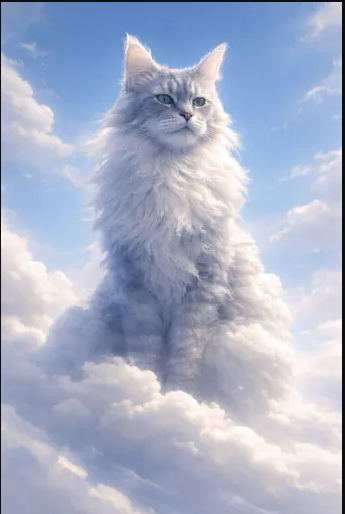
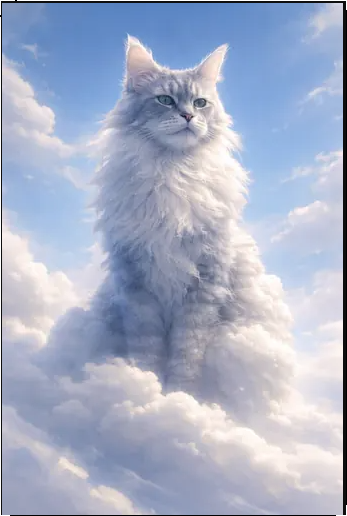
test: [#151 - ] iOS 말풍선 inset 수정 테스트 추가 - 시나리오1 : 성공 테스트 - 시나리오2 : 말풍선이 아니거나, 말풍선의 inset이 없는 경우에 대한 실패 테스트 - 그 외 inset 추가에 따른 seeder 수정 및 테스트용 이미지에 말풍선 이미지 추가 Fixes: #151

Changed region(s): [[0.0, 0.0, 1.0, 1.0], [0.5507, 0.1868, 0.6087, 0.2179], [0.4928, 0.1245, 0.5217, 0.1556]]

diff --git a/src/test/java/com/komentum/theme/ios/editor/IosThemeCssEditorTest.java b/src/test/java/com/komentum/theme/ios/editor/IosThemeCssEditorTest.java
@@ -4,15 +4,20 @@ import static org.assertj.core.api.Assertions.assertThat;
 import static org.assertj.core.api.Assertions.assertThatThrownBy;
 
 import com.komentum.designcomponent.domain.ColorStyle;
+import com.komentum.designcomponent.domain.ComponentType;
 import com.komentum.designcomponent.domain.PlatformColorStyle;
 import com.komentum.designcomponent.enums.Platform;
 import com.komentum.designcomponent.enums.StyleCode;
+import com.komentum.designcomponent.enums.TypeCode;
+import com.komentum.theme.core.domain.ImageInset;
 import com.komentum.theme.core.domain.ThemeComponent;
+import com.komentum.theme.core.domain.ThemeImage;
 import com.komentum.theme.core.domain.ThemeStyle;
 import java.nio.charset.StandardCharsets;
 import java.nio.file.Files;
 import java.nio.file.Path;
 import java.util.List;
+import org.junit.jupiter.api.DisplayName;
 import org.junit.jupiter.api.Test;
 import org.junit.jupiter.api.io.TempDir;
 
@@ -303,5 +308,79 @@ class IosThemeCssEditorTest {
     assertThatThrownBy(() -> editor.editCss(tempDir, themeComponent, List.of(), List.of()))
         .isInstanceOf(IllegalStateException.class)
         .hasMessageContaining("iOS platform color style seed is required");
+  }
+
+  @Test
+  @DisplayName("css 내 bubble inset 정보를 수정한다")
+  void editBubbleInset_success() throws Exception {
+    // given
+    String css = """
+        MessageCellStyle-Send
+        {
+            -ios-background-image: 'temp.png' 10px 10px;
+            -ios-selected-background-image: 'temp.png' 10px 10px;
+            -ios-group-background-image: 'temp.png' 10px 10px;
+            -ios-group-selected-background-image: 'temp.png' 10px 10px;
+            -ios-title-edgeinsets: 10px 10px 10px 10px;  /* top, left, bottom, right */
+            -ios-group-title-edgeinsets: 10px 10px 10px 10px;
+        }
+        """;
+    Files.writeString(tempDir.resolve("KakaoTalkTheme.css"), css, StandardCharsets.UTF_8);
+    ThemeImage sendBubble = ThemeImage.builder()
+        .imageInset(new ImageInset(50, 50, 50, 50, 50, 50))
+        .componentType(ComponentType.builder()
+            .typeCode(TypeCode.MESSAGE_CELL_STYLE_SEND_BACKGROUND_IMAGE)
+            .build())
+        .build();
+    ThemeImage sendBubbleGroup = ThemeImage.builder()
+        .imageInset(new ImageInset(50, 50, 50, 50, 50, 50))
+        .componentType(ComponentType.builder()
+            .typeCode(TypeCode.MESSAGE_CELL_STYLE_SEND_GROUP_BACKGROUND_IMAGE)
+            .build())
+        .build();
+    // when
+    editor.editBubbleInset(tempDir, List.of(sendBubble, sendBubbleGroup));
+    // then
+    String resultCss = Files.readString(tempDir.resolve("KakaoTalkTheme.css"),
+        StandardCharsets.UTF_8);
+    assertThat(resultCss).contains("-ios-background-image: 'temp.png' 50px 50px;");
+    assertThat(resultCss).contains("-ios-selected-background-image: 'temp.png' 50px 50px;");
+    assertThat(resultCss).contains("-ios-group-background-image: 'temp.png' 50px 50px;");
+    assertThat(resultCss).contains("-ios-group-selected-background-image: 'temp.png' 50px 50px;");
+    assertThat(resultCss).contains("-ios-title-edgeinsets: 50px 50px 50px 50px;");
+    assertThat(resultCss).contains("-ios-group-title-edgeinsets: 50px 50px 50px 50px;");
+  }
+
+  @Test
+  @DisplayName("메서드의 파라미터 내에는 말풍선 이미지만 허용되고 inset 정보가 있어야한다")
+  void editBubbleInset_whenImage() throws Exception {
+    // given
+    String css = """
+        MessageCellStyle-Send
+        {
+            -ios-background-image: 'temp.png' 10px 10px;
+            -ios-selected-background-image: 'temp.png' 10px 10px;
+            -ios-group-background-image: 'temp.png' 10px 10px;
+            -ios-group-selected-background-image: 'temp.png' 10px 10px;
+            -ios-title-edgeinsets: 10px 10px 10px 10px;  /* top, left, bottom, right */
+            -ios-group-title-edgeinsets: 10px 10px 10px 10px;
+        }
+        """;
+    Files.writeString(tempDir.resolve("KakaoTalkTheme.css"), css, StandardCharsets.UTF_8);
+    ThemeImage invalidBubbleImage = ThemeImage.builder()
+        .componentType(ComponentType.builder()
+            .typeCode(TypeCode.MAINVIEW_STYLE_PRIMARY_BACKGROUND_IMAGE)
+            .build())
+        .build();
+    ThemeImage bubbleImageWithoutInset = ThemeImage.builder()
+        .componentType(ComponentType.builder()
+            .typeCode(TypeCode.MESSAGE_CELL_STYLE_SEND_BACKGROUND_IMAGE)
+            .build())
+        .build();
+    // when & then
+    assertThatThrownBy(() -> editor.editBubbleInset(tempDir, List.of(invalidBubbleImage)))
+        .isInstanceOf(IllegalArgumentException.class);
+    assertThatThrownBy(() -> editor.editBubbleInset(tempDir, List.of(bubbleImageWithoutInset)))
+        .isInstanceOf(IllegalArgumentException.class);
   }
 }

diff --git a/src/main/java/com/komentum/seed/seeder/ThemeComponentSeeder.java b/src/main/java/com/komentum/seed/seeder/ThemeComponentSeeder.java
@@ -4,9 +4,11 @@ import com.github.javafaker.Faker;
 import com.komentum.designcomponent.domain.ColorStyle;
 import com.komentum.designcomponent.domain.ComponentType;
 import com.komentum.designcomponent.domain.DesignComponent;
+import com.komentum.designcomponent.enums.TypeCodeGroup;
 import com.komentum.designcomponent.repository.ColorStyleRepository;
 import com.komentum.designcomponent.repository.ComponentTypeRepository;
 import com.komentum.designcomponent.repository.DesignComponentRepository;
+import com.komentum.theme.core.domain.ImageInset;
 import com.komentum.theme.core.domain.ThemeComponent;
 import com.komentum.theme.core.domain.ThemeImage;
 import com.komentum.theme.core.domain.ThemeStyle;
@@ -50,11 +52,16 @@ public class ThemeComponentSeeder {
     List<ComponentType> componentTypes = componentTypeRepository.findAll();
     List<ThemeImage> themeImages = new ArrayList<>();
     for (int i = 0; i < componentTypes.size(); i++) {
-      themeImages.add(ThemeImage.builder()
+      ComponentType ct = componentTypes.get(i);
+      ThemeImage ti = ThemeImage.builder()
           .themeComponent(themeComponent)
-          .componentType(componentTypes.get(i))
+          .componentType(ct)
           .designComponent(designComponents.get(i % designComponents.size()))
-          .build());
+          .build();
+      if (ct.getTypeCode().getTypeCodeGroup().equals(TypeCodeGroup.CHATROOM_BUBBLE)) {
+        ti.setImageInset(new ImageInset(50, 50, 15, 15, 15, 15));
+      }
+      themeImages.add(ti);
     }
     return themeImageRepository.saveAll(themeImages);
   }

diff --git a/src/main/java/com/komentum/seed/seeder/DesignComponentSeeder.java b/src/main/java/com/komentum/seed/seeder/DesignComponentSeeder.java
@@ -2,10 +2,10 @@ package com.komentum.seed.seeder;
 
 import com.github.javafaker.Faker;
 import com.komentum.designcomponent.domain.ComponentType;
-import com.komentum.global.utils.FileManager;
 import com.komentum.designcomponent.domain.DesignComponent;
 import com.komentum.designcomponent.repository.ComponentTypeRepository;
 import com.komentum.designcomponent.repository.DesignComponentRepository;
+import com.komentum.global.utils.FileManager;
 import com.komentum.user.domain.User;
 import java.io.IOException;
 import java.io.InputStream;
@@ -30,7 +30,7 @@ public class DesignComponentSeeder {
 
   private DesignComponent generateOne(User owner, ComponentType componentType) {
     try {
-      ClassPathResource targetImage = new ClassPathResource("dev_resource/test.png");
+      ClassPathResource targetImage = new ClassPathResource("dev_resource/test-bubble.png");
       String fileName =
           "DesignComponent_" + UUID.randomUUID() + "_" + System.currentTimeMillis() + ".png";
       try (InputStream is = targetImage.getInputStream()) {
